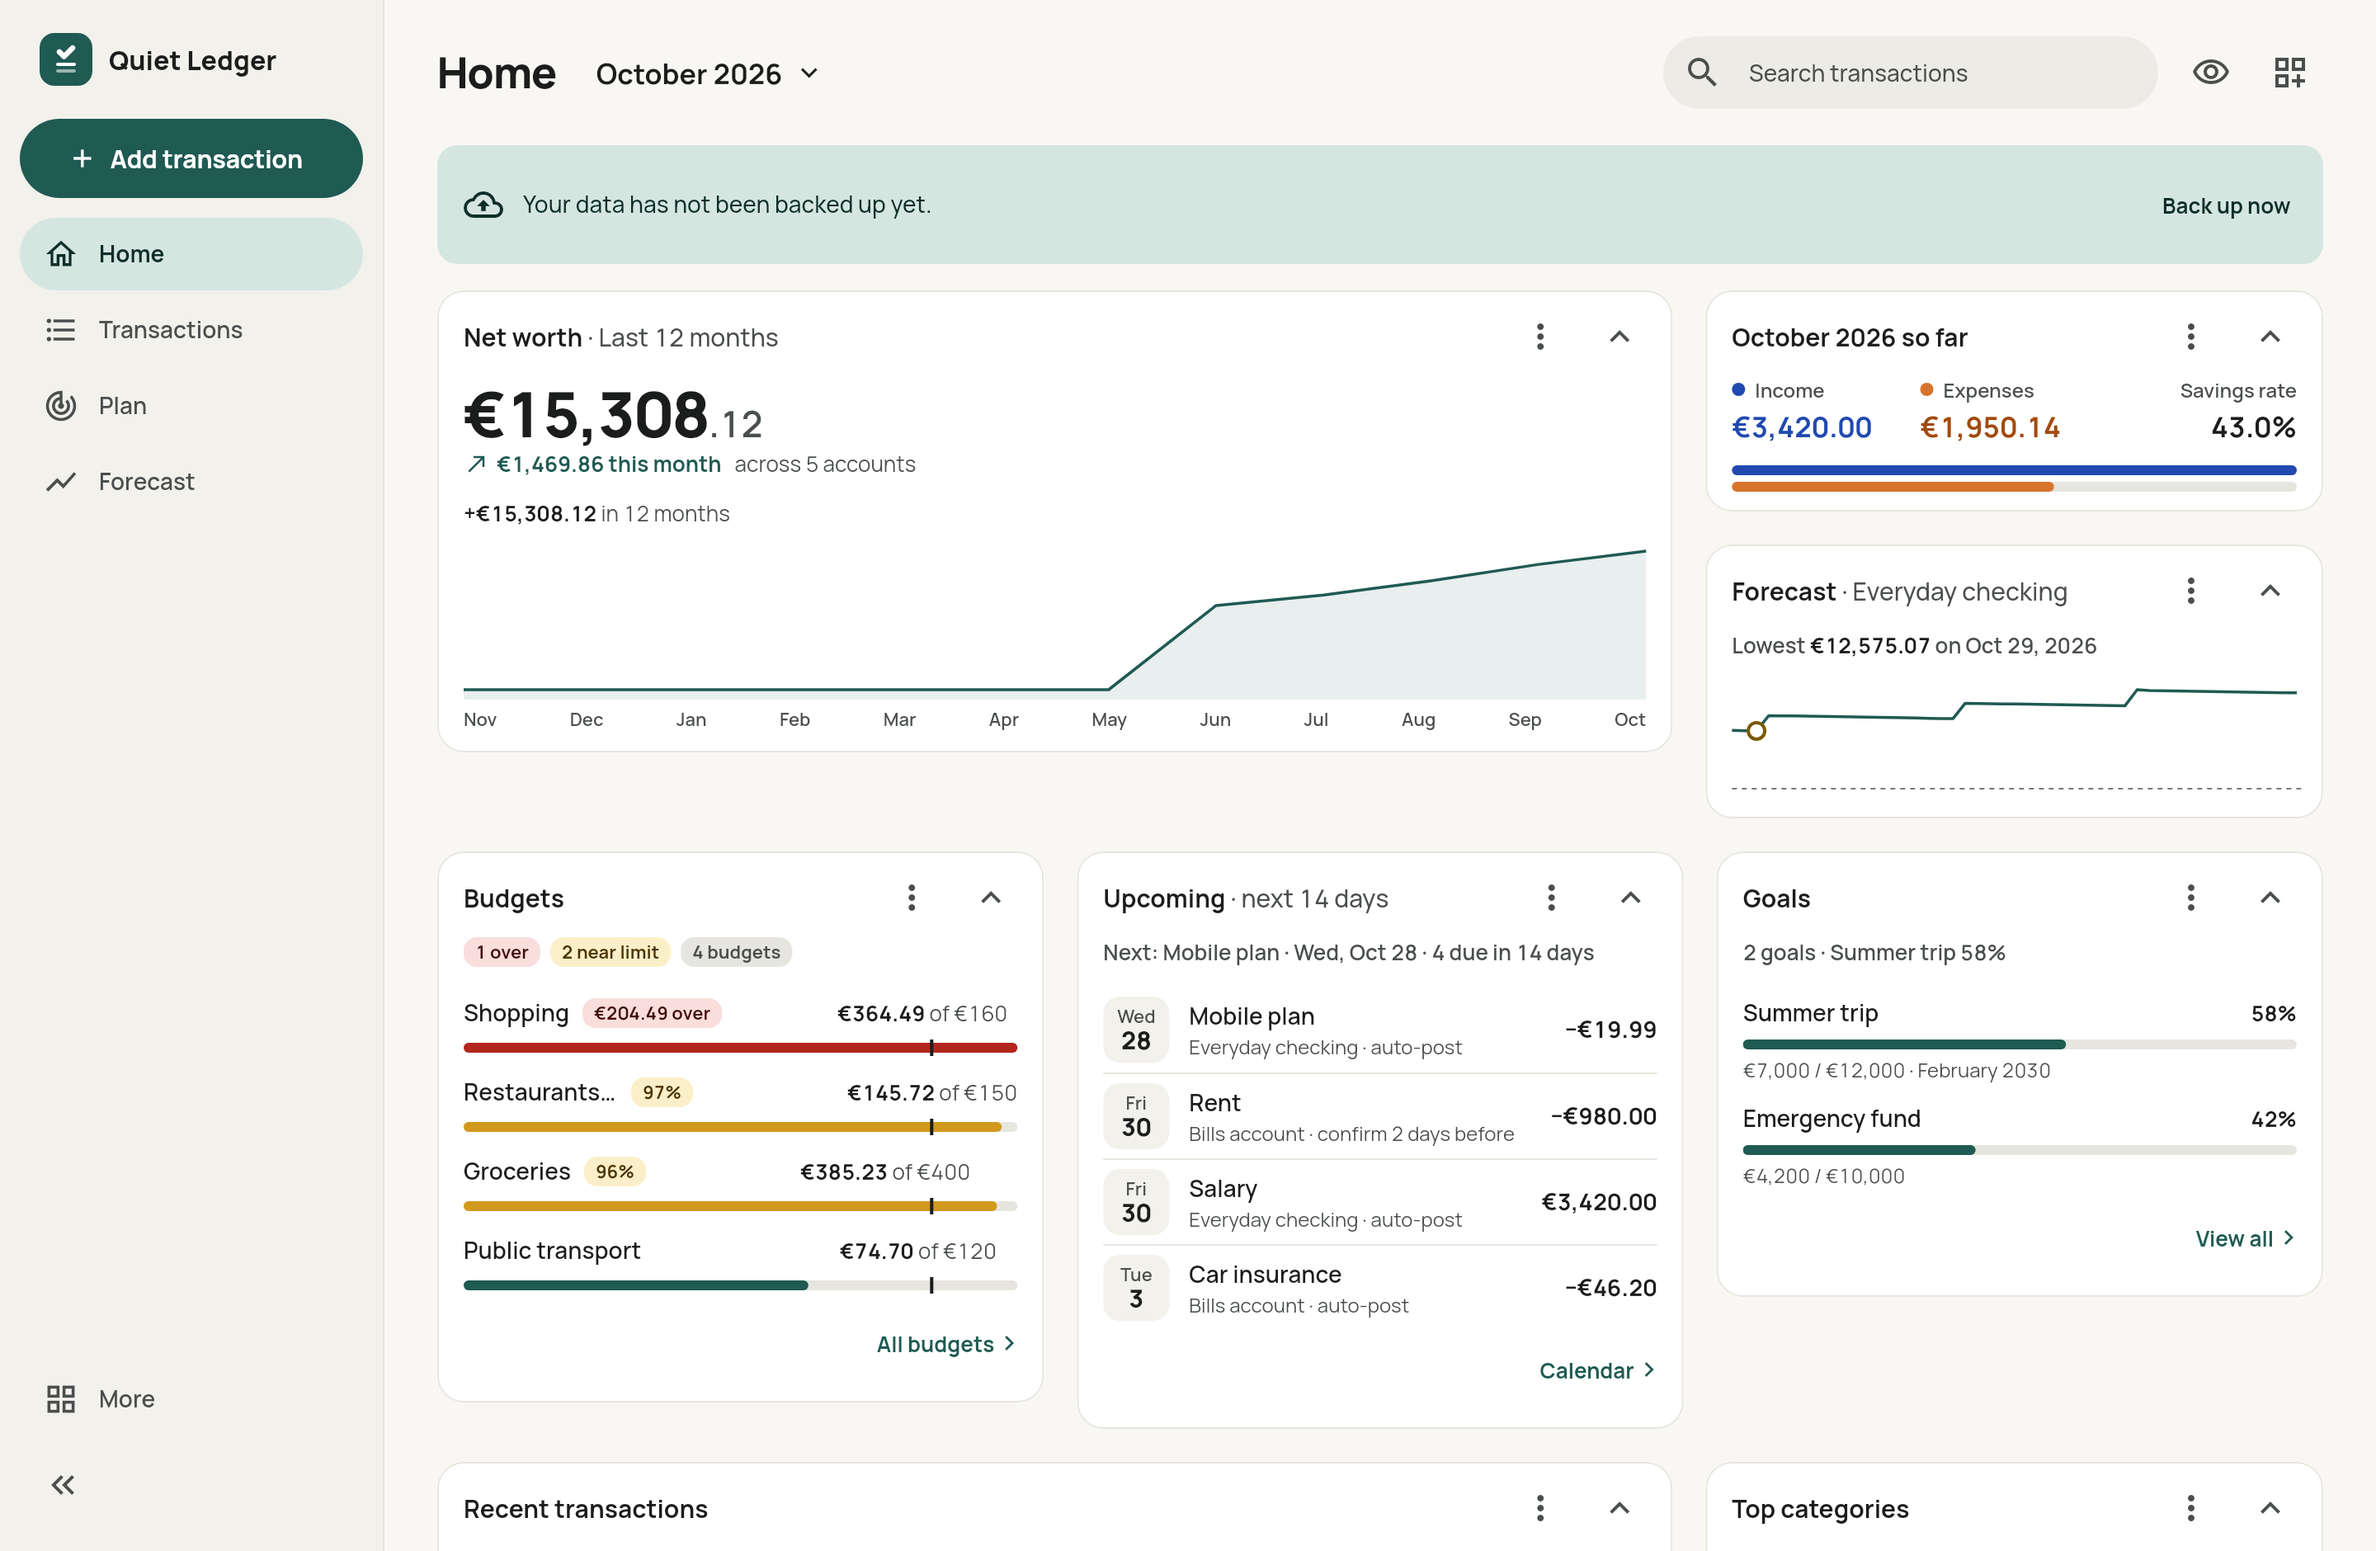
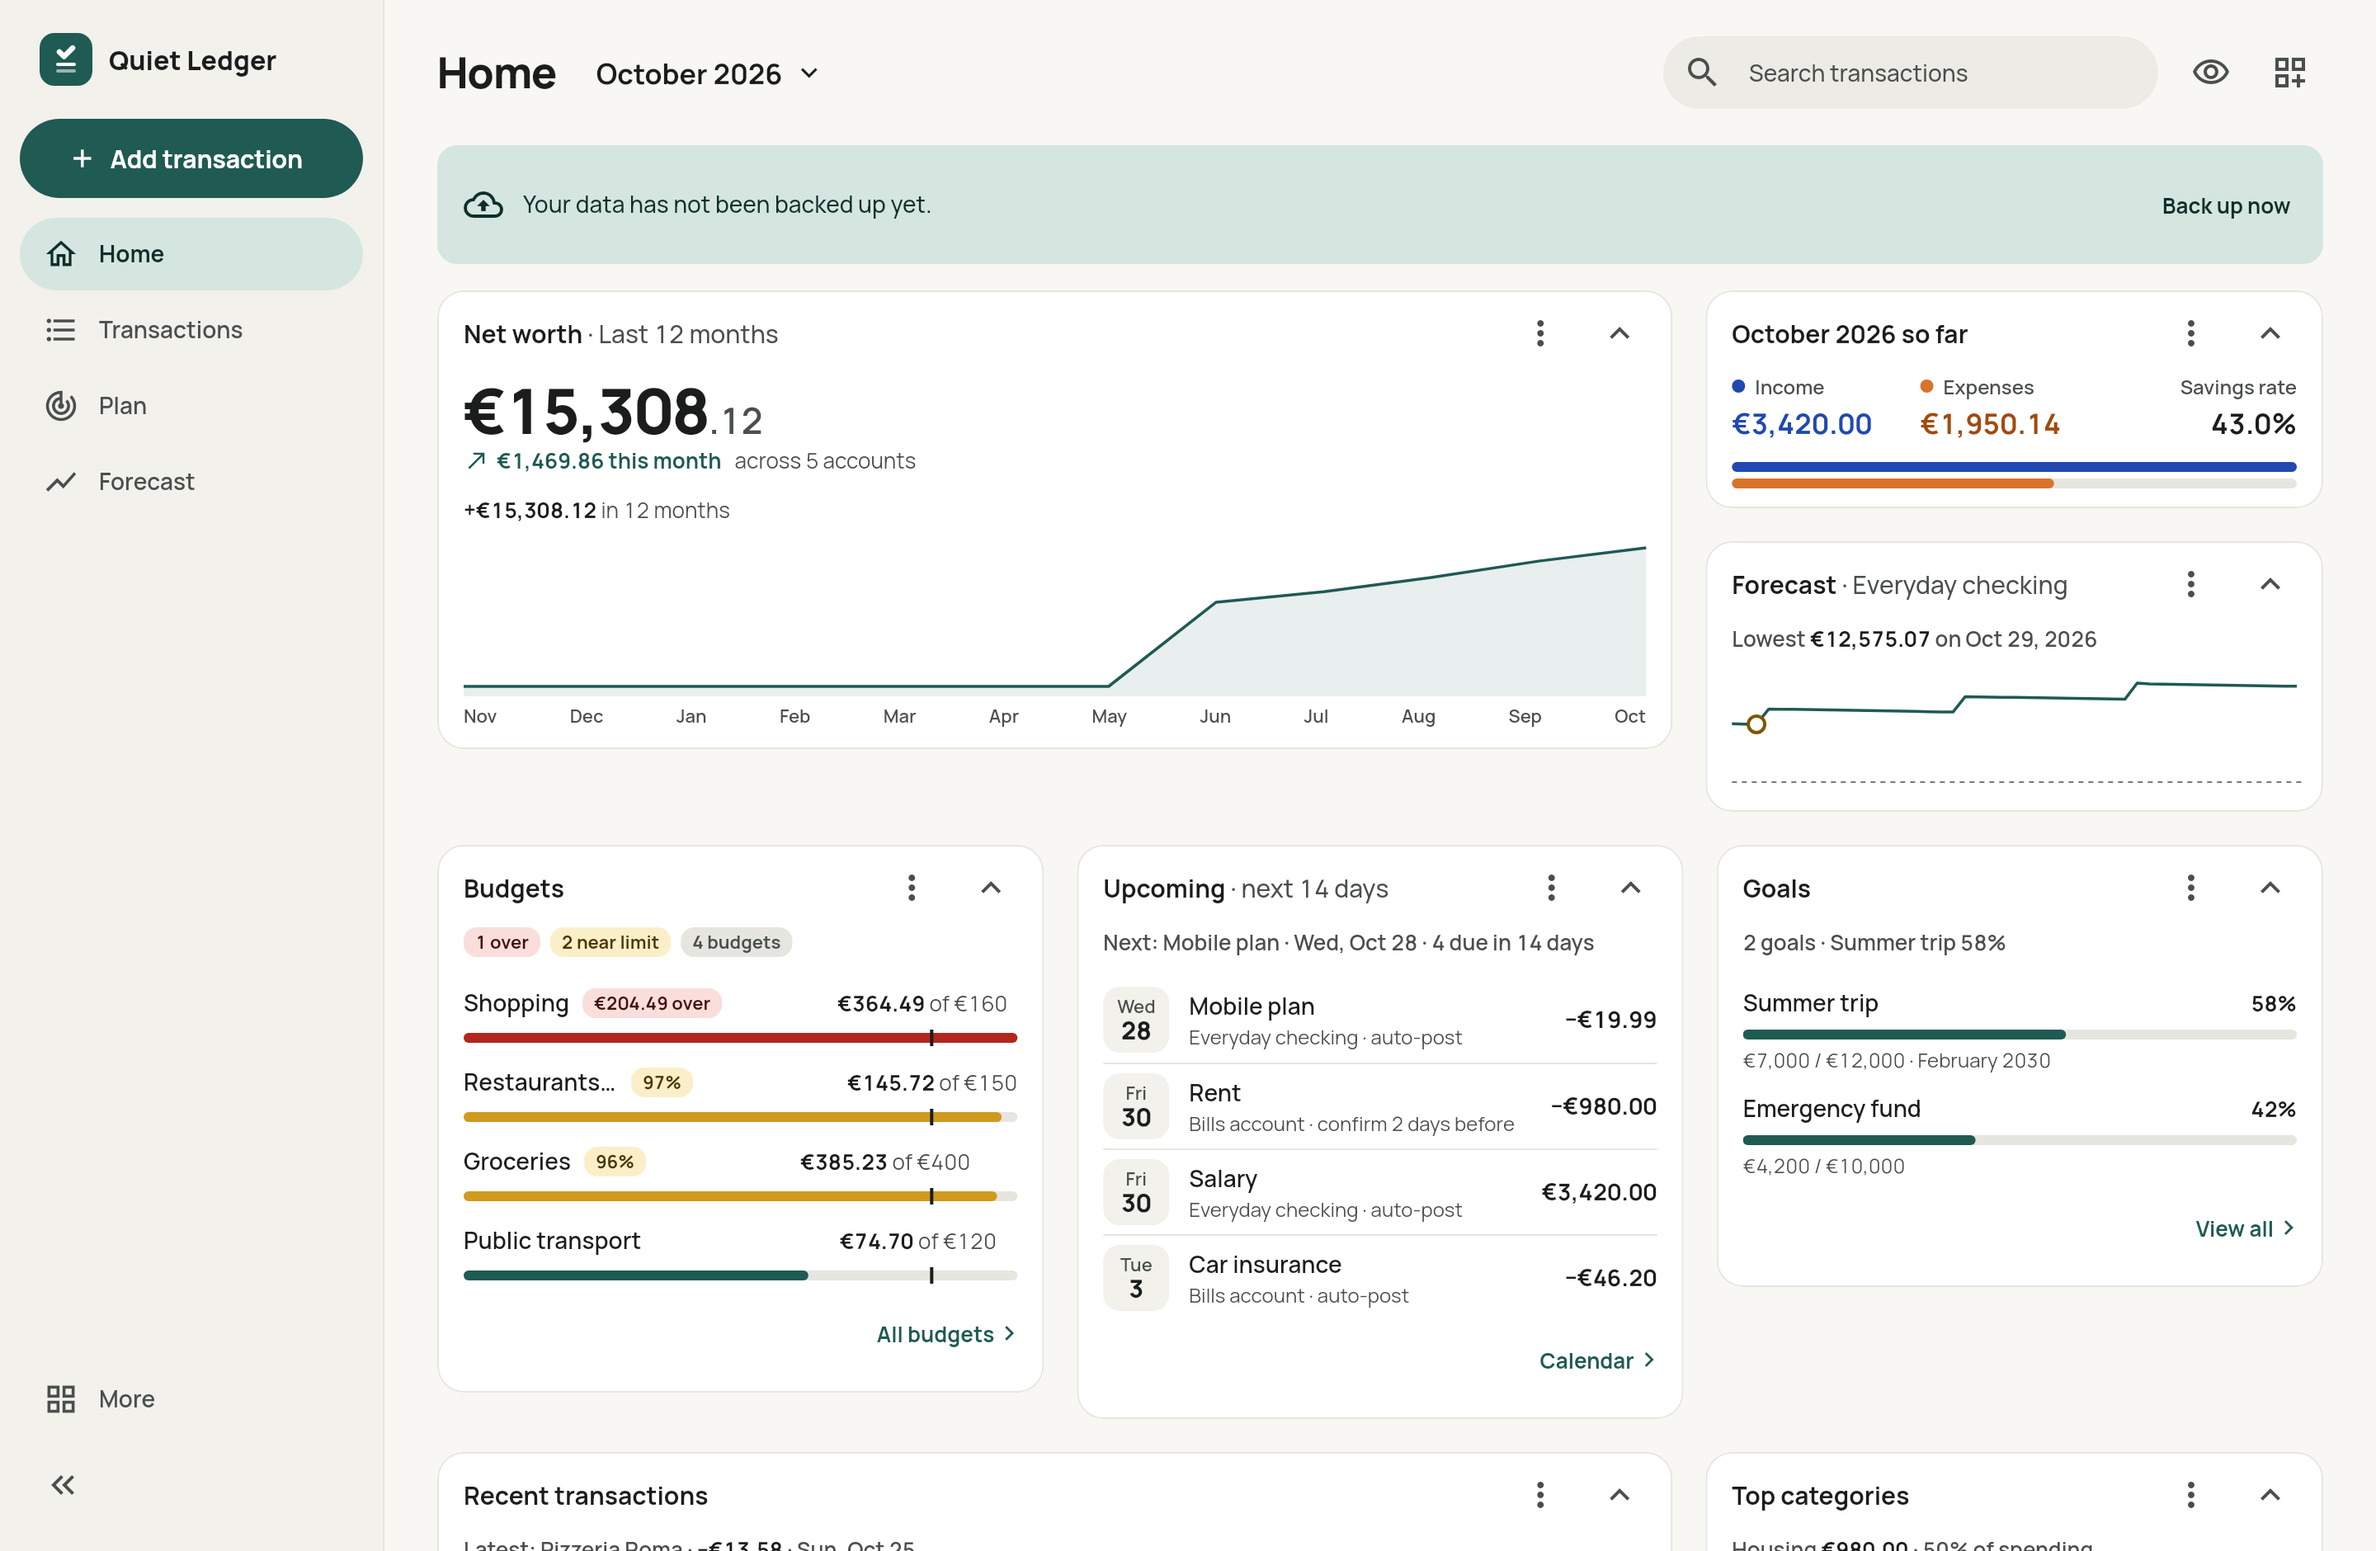
Keep the arranged row still when a widget is dragged into an empty column; card titles back in place
In arrange mode the slot in an empty column grew from nothing in place of
"Drag a widget here", so the row shrank under the pointer, the pointer
left it and the row flickered between its two heights. The slot now takes
the label's place at full height.

Dashboard card headers became 48 dp with folding (their buttons' touch
targets), so titles sat 2 dp lower than before; the card's top padding
gives the 2 dp back.

diff --git a/test/features/dashboard/dashboard_layout_flow_test.dart b/test/features/dashboard/dashboard_layout_flow_test.dart
@@ -12,6 +12,7 @@ import 'package:personal_finance/features/dashboard/domain/board_layout.dart';
 import 'package:personal_finance/features/dashboard/domain/dashboard_view.dart';
 import 'package:personal_finance/features/dashboard/presentation/board/arrange_board.dart';
 import 'package:personal_finance/features/dashboard/presentation/board/arrange_card.dart';
+import 'package:personal_finance/features/dashboard/presentation/board/row_band.dart';
 import 'package:personal_finance/features/dashboard/presentation/dashboard_screen.dart';
 import 'package:personal_finance/features/dashboard/presentation/phone_editor_sheet.dart';
 import 'package:personal_finance/features/forecast/presentation/forecast_providers.dart';
@@ -497,6 +498,44 @@ void main() {
           ),
         );
         expect(tester.takeException(), isNull);
+      } finally {
+        await teardown(tester);
+      }
+    });
+
+    testWidgets('a drag into an empty column keeps the row still', (
+      tester,
+    ) async {
+      try {
+        await pumpAt(tester, const Size(1440, 1400));
+        await enterArrange(tester);
+        await tester.tap(find.text('Add row'));
+        await settle(tester);
+        await tester.tap(find.byTooltip('Row layout').last);
+        await settle(tester);
+        await tester.tap(find.byTooltip('One column').last);
+        await settle(tester);
+
+        final band = find.byType(RowBand).last;
+        final start = tester.getCenter(arrangeCard('Accounts'));
+        final gesture = await tester.startGesture(start);
+        await gesture.moveBy(const Offset(0, 20));
+        await tester.pump(const Duration(milliseconds: 16));
+        final heights = <double>{};
+        for (var f = 0; f < 30; f++) {
+          // Low in the row, where a shrinking row would lose the pointer.
+          final rect = tester.getRect(band);
+          await gesture.moveTo(Offset(rect.center.dx, rect.top + 108));
+          await tester.pump(const Duration(milliseconds: 16));
+          if (f > 15) heights.add(tester.getRect(band).height);
+        }
+        expect(heights, hasLength(1));
+        await gesture.up();
+        await settle(tester);
+        expect(
+          tester.getRect(arrangeCard('Accounts')).top,
+          greaterThan(tester.getRect(band).top),
+        );
       } finally {
         await teardown(tester);
       }

diff --git a/lib/features/dashboard/presentation/board/arrange_board.dart b/lib/features/dashboard/presentation/board/arrange_board.dart
@@ -348,10 +348,14 @@ class _ArrangeBoardState extends State<ArrangeBoard> {
     }
 
     final children = <Widget>[];
-    Widget slot(ArrangeTarget target, EdgeInsets padding) => _GrowIn(
+    Widget slot(
+      ArrangeTarget target,
+      EdgeInsets padding, {
+      bool inPlaceOfLabel = false,
+    }) => _GrowIn(
       key: ValueKey(target),
       isOpen: target == _target,
-      startsOpen: _isLiftedInPlace && target == _target,
+      startsOpen: (inPlaceOfLabel || _isLiftedInPlace) && target == _target,
       onClosed: () => _closed(target),
       child: Padding(
         padding: padding,
@@ -378,11 +382,13 @@ class _ArrangeBoardState extends State<ArrangeBoard> {
       );
     }
     if (others.isEmpty) {
-      // An empty column shows the slot in place of "Drag a widget here".
+      // An empty column shows the slot in place of "Drag a widget here", at
+      // its full height at once: growing from nothing would shrink the row
+      // under the pointer, which then leaves it, and the row flickers.
       final open = indexOf(_target);
       children.add(
         open != null
-            ? slot(_target!, EdgeInsets.zero)
+            ? slot(_target!, EdgeInsets.zero, inPlaceOfLabel: true)
             : DropSlot(
                 kind: DropSlotKind.emptyColumn,
                 label: _l.dashLayoutEmptyColumn,

diff --git a/test/features/dashboard/dashboard_test.dart b/test/features/dashboard/dashboard_test.dart
@@ -203,4 +203,22 @@ void main() {
       await teardown(tester);
     }
   });
+
+  for (final size in [const Size(1440, 1000), const Size(390, 844)]) {
+    testWidgets('card titles sit 26 dp below the card edge, as before '
+        '(${size.width.toInt()} wide)', (tester) async {
+      await tester.runAsync(seed);
+      try {
+        await pumpAt(tester, size);
+        final title = find.text('Budgets');
+        final card = find.ancestor(of: title, matching: find.byType(Card));
+        expect(
+          tester.getCenter(title).dy - tester.getTopLeft(card).dy,
+          moreOrLessEquals(26, epsilon: 0.5),
+        );
+      } finally {
+        await teardown(tester);
+      }
+    });
+  }
 }

diff --git a/lib/features/dashboard/presentation/widgets/dash_card.dart b/lib/features/dashboard/presentation/widgets/dash_card.dart
@@ -232,8 +232,11 @@ class _DashCardState extends ConsumerState<DashCard>
       ],
     );
 
+    // The header is 48 dp (its buttons' touch targets), 4 dp more than the
+    // 44 dp header before folding came: 2 dp less on top keeps the title
+    // where it always was, centred 26 dp below the card's edge.
     final content = Padding(
-      padding: const EdgeInsets.fromLTRB(Space.md, Space.xxs, Space.xs, 12),
+      padding: const EdgeInsets.fromLTRB(Space.md, 2, Space.xs, 12),
       child: Column(
         crossAxisAlignment: CrossAxisAlignment.stretch,
         mainAxisSize: MainAxisSize.min,

diff --git a/CHANGELOG.md b/CHANGELOG.md
@@ -121,6 +121,10 @@ a dated release section.
 
 ### Fixed
 
+- Arranging the dashboard: dragging a widget into an empty column no
+  longer makes the row flicker.
+- Dashboard card titles sit where they did before folding came, instead
+  of 2 px lower.
 - Privacy mode now also hides the amounts in the dashboard's budget rows
   ("of €…", "€… over") and goals ("saved / target"), the running balance
   under a transaction, and the amounts screen readers read out for
